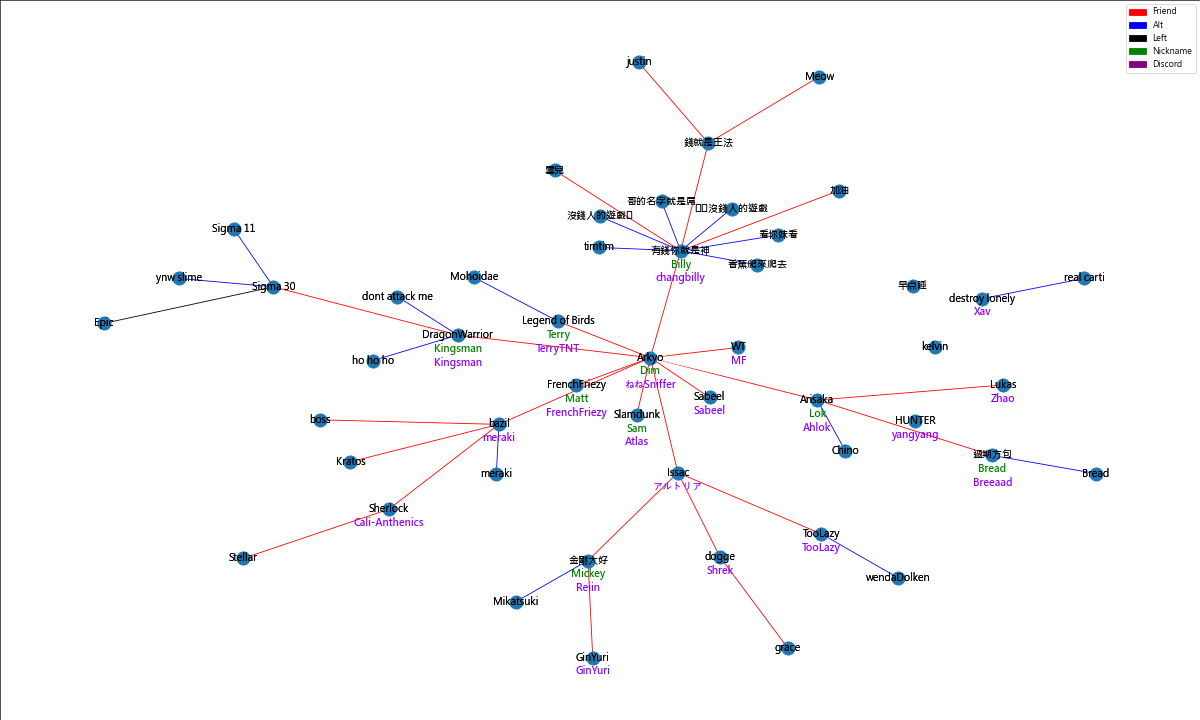
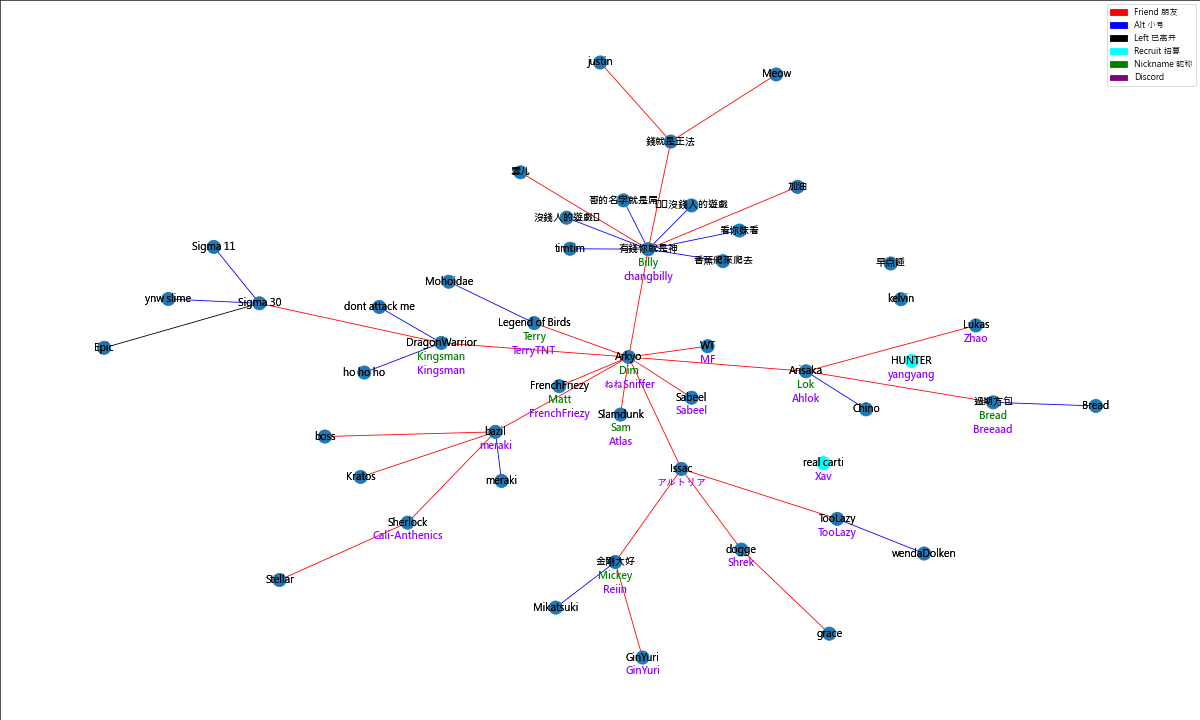
relation: Add recruit

diff --git a/relation/relation.py b/relation/relation.py
@@ -4,15 +4,12 @@ import networkx as nx
 import matplotlib.pyplot as plt
 import matplotlib.patches as patches
 
-plt.figure(figsize=(20, 12), dpi=60) 
-
-# NetworkX is gay. Extracted from nx.draw(), allows always maximize plot
-ax = plt.gcf().add_axes((0, 0, 1, 1))
-
-
 RENDER_LEFT = True
 
 
+
+plt.figure(figsize=(20, 12), dpi=60)
+ax = plt.gcf().add_axes((0, 0, 1, 1))  # NetworkX is gay. Extracted from nx.draw(), allows always maximize plot
 g = nx.Graph()
 
 def process_params(aka, discord):
@@ -24,12 +21,15 @@ def process_params(aka, discord):
         discord = '\n\n'*counter + discord
     return aka, discord
 
-def add_single(a, aka='', discord=''):
+def add_single(a, aka='', discord='', recruit=False):
     aka, discord = process_params(aka, discord)
-    g.add_node(a, aka=aka, discord=discord)
+    if recruit:
+        g.add_node(a, aka=aka, discord=discord, color='aqua')
+    else:
+        g.add_node(a, aka=aka, discord=discord)
 
-def add_unknown(a, aka='', discord=''):
-    add_single(a, aka, discord)
+def add_unknown(a, recruit, aka='', discord=''):
+    add_single(a, aka, discord, recruit)
     g.add_edge('Arkyo', a, color='white', weight=5)
 
 def add_fd(a, b, aka='', discord='', color='red'):
@@ -45,13 +45,13 @@ if RENDER_LEFT:
     def add_left(a, b, aka='', discord=''):
         add_fd(a, b, aka=aka, discord=discord, color='black')
 else:
-    def add_left(a, b):
+    def add_left(a, b, aka='', discord=''):
         pass
 
 
 add_single('Arkyo', aka='Dim', discord='ねねSniffer')
-add_unknown('kelvin')
-add_unknown('早点睡')
+add_unknown('kelvin', False)
+add_unknown('早点睡', False)
 add_fd('Arkyo', '有錢你就是神', aka='Billy', discord='changbilly')
 add_alt('有錢你就是神', '香蕉爬來爬去')
 add_fd('錢就是王法', 'Meow')
@@ -64,7 +64,7 @@ add_fd('Arkyo', 'Legend of Birds', aka='Terry', discord='TerryTNT')
 add_fd('Arkyo', 'Slamdunk', aka='Sam', discord='Atlas')
 add_fd('Arkyo', 'bazil', discord='meraki')
 add_fd('bazil', 'Sherlock', discord='Cali-Anthenics')
-add_fd('有錢你就是神', '雪兒')
+add_fd('有錢你就是神', '雪儿')
 add_alt('有錢你就是神', '沒錢人的遊戲🌚')
 add_alt('有錢你就是神', 'timtim')
 add_fd('錢就是王法', 'justin')
@@ -96,13 +96,13 @@ add_fd('有錢你就是神', '加油')
 add_fd('Sherlock', 'Stellar')
 add_fd('Arisaka', 'Lukas', discord='Zhao')
 add_alt('TooLazy', 'wendaDolken')
-add_unknown('destroy lonely', discord='Xav')
-add_alt('destroy lonely', 'real carti')
-add_unknown('HUNTER', discord='yangyang')
+add_unknown('real carti', True, discord='Xav')
+add_unknown('HUNTER', True, discord='yangyang')
 
 
 layout = nx.kamada_kawai_layout(g)
-nx.draw_networkx(g, pos=layout, node_size=250, edge_color=[g[u][v]['color'] for u,v in g.edges()], ax=ax)
+node_colors = [node['color'] if 'color' in node else '#1f78b4' for node in g.nodes.values()]
+nx.draw_networkx(g, pos=layout, node_size=250, node_color=node_colors, edge_color=[g[u][v]['color'] for u,v in g.edges()], ax=ax)
 nx.draw_networkx_labels(g, pos=layout)
 nx.draw_networkx_labels(g, pos=layout, labels={k: v['aka'] for k,v in g.nodes.items()}, font_color='green', font_weight='heavy')
 nx.draw_networkx_labels(g, pos=layout, labels={k: v['discord'] for k,v in g.nodes.items()}, font_color='#9100ff', font_weight='heavy')
@@ -112,7 +112,8 @@ b_patch = patches.Patch(color='b', label='Alt 小号')
 bl_patch = patches.Patch(color='black', label='Left 已离开')
 g_patch = patches.Patch(color='g', label='Nickname 昵称')
 p_patch = patches.Patch(color='purple', label='Discord')
-plt.legend(handles=(r_patch, b_patch, bl_patch, g_patch, p_patch))
+aqua_patch = patches.Patch(color='aqua', label='Recruit 招募')
+plt.legend(handles=(r_patch, b_patch, bl_patch, aqua_patch, g_patch, p_patch))
 if len(sys.argv) == 2 and sys.argv[1] == 'save':
     plt.savefig('Figure_1.png')
 else:
